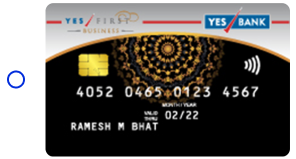
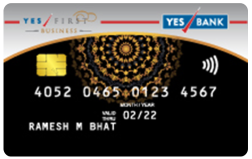
Credit Card Radio Buttons

diff --git a/lib/pages/creditcard/card.dart b/lib/pages/creditcard/card.dart
@@ -13,6 +13,8 @@ class Cardimage extends StatefulWidget {
 }
 
 class _CardimageState extends State<Cardimage> {
+  ProductType? _productType;
+
   @override
   Widget build(BuildContext context) {
     return Scaffold(
@@ -53,7 +55,7 @@ class _CardimageState extends State<Cardimage> {
               ),
             ),
             const SizedBox(
-              height: 27,
+              height: 20,
             ),
             const Text(
               'Select a card that suit your needs                             ',
@@ -62,57 +64,76 @@ class _CardimageState extends State<Cardimage> {
               ),
             ),
             const SizedBox(
-              height: 27,
+              height: 20,
             ),
-            Padding(
-              padding: const EdgeInsets.all(1.0),
-              child: GestureDetector(
-                onTap: () {
-                  Navigator.push(
-                    context,
-                    MaterialPageRoute(
-                      builder: (context) => Custoinfo(),
+            Row(
+              children: [
+                Expanded(
+                  child: RadioListTile<ProductType>(
+                    contentPadding: const EdgeInsets.all(0.0),
+                    shape: RoundedRectangleBorder(
+                        borderRadius: BorderRadius.circular(5.0)),
+                    value: ProductType.Gold,
+                    groupValue: _productType,
+                    title: Row(
+                      mainAxisAlignment: MainAxisAlignment.spaceBetween,
+                      children: [
+                        Padding(
+                          padding: const EdgeInsets.all(18.0),
+                          child: Image.asset(
+                            "assets/cardone.png",
+                            fit: BoxFit.cover,
+                            width: 252,
+                            height: 159,
+                          ),
+                        ),
+                      ],
                     ),
-                  );
-                },
-                child: Padding(
-                  padding: const EdgeInsets.all(18.0),
-                  child: Image.asset(
-                    "assets/cardone.png",
-                    fit: BoxFit.cover,
-                    width: 340,
-                    height: 140,
+                    dense: true,
+                    onChanged: (value) {
+                      setState(() {
+                        _productType = value;
+                      });
+                    },
                   ),
                 ),
-              ),
+              ],
             ),
-            const SizedBox(
-              height: 18,
-            ),
-            Padding(
-              padding: const EdgeInsets.all(1.0),
-              child: GestureDetector(
-                onTap: () {
-                  Navigator.push(
-                    context,
-                    MaterialPageRoute(
-                      builder: (context) => Custoinfo(),
+            Row(
+              children: [
+                Expanded(
+                  child: RadioListTile<ProductType>(
+                    contentPadding: const EdgeInsets.all(0.0),
+                    shape: RoundedRectangleBorder(
+                        borderRadius: BorderRadius.circular(5.0)),
+                    value: ProductType.Silver,
+                    groupValue: _productType,
+                    title: Row(
+                      mainAxisAlignment: MainAxisAlignment.spaceBetween,
+                      children: [
+                        Padding(
+                          padding: const EdgeInsets.all(18.0),
+                          child: Image.asset(
+                            "assets/cardtwo.png",
+                            fit: BoxFit.cover,
+                            width: 252,
+                            height: 159,
+                          ),
+                        ),
+                      ],
                     ),
-                  );
-                },
-                child: Padding(
-                  padding: const EdgeInsets.all(18.0),
-                  child: Image.asset(
-                    "assets/cardtwo.png",
-                    fit: BoxFit.cover,
-                    width: 340,
-                    height: 140,
+                    dense: true,
+                    onChanged: (value) {
+                      setState(() {
+                        _productType = value;
+                      });
+                    },
                   ),
                 ),
-              ),
+              ],
             ),
             const SizedBox(
-              height: 80,
+              height: 10,
             ),
             Align(
               alignment: Alignment.bottomCenter,
